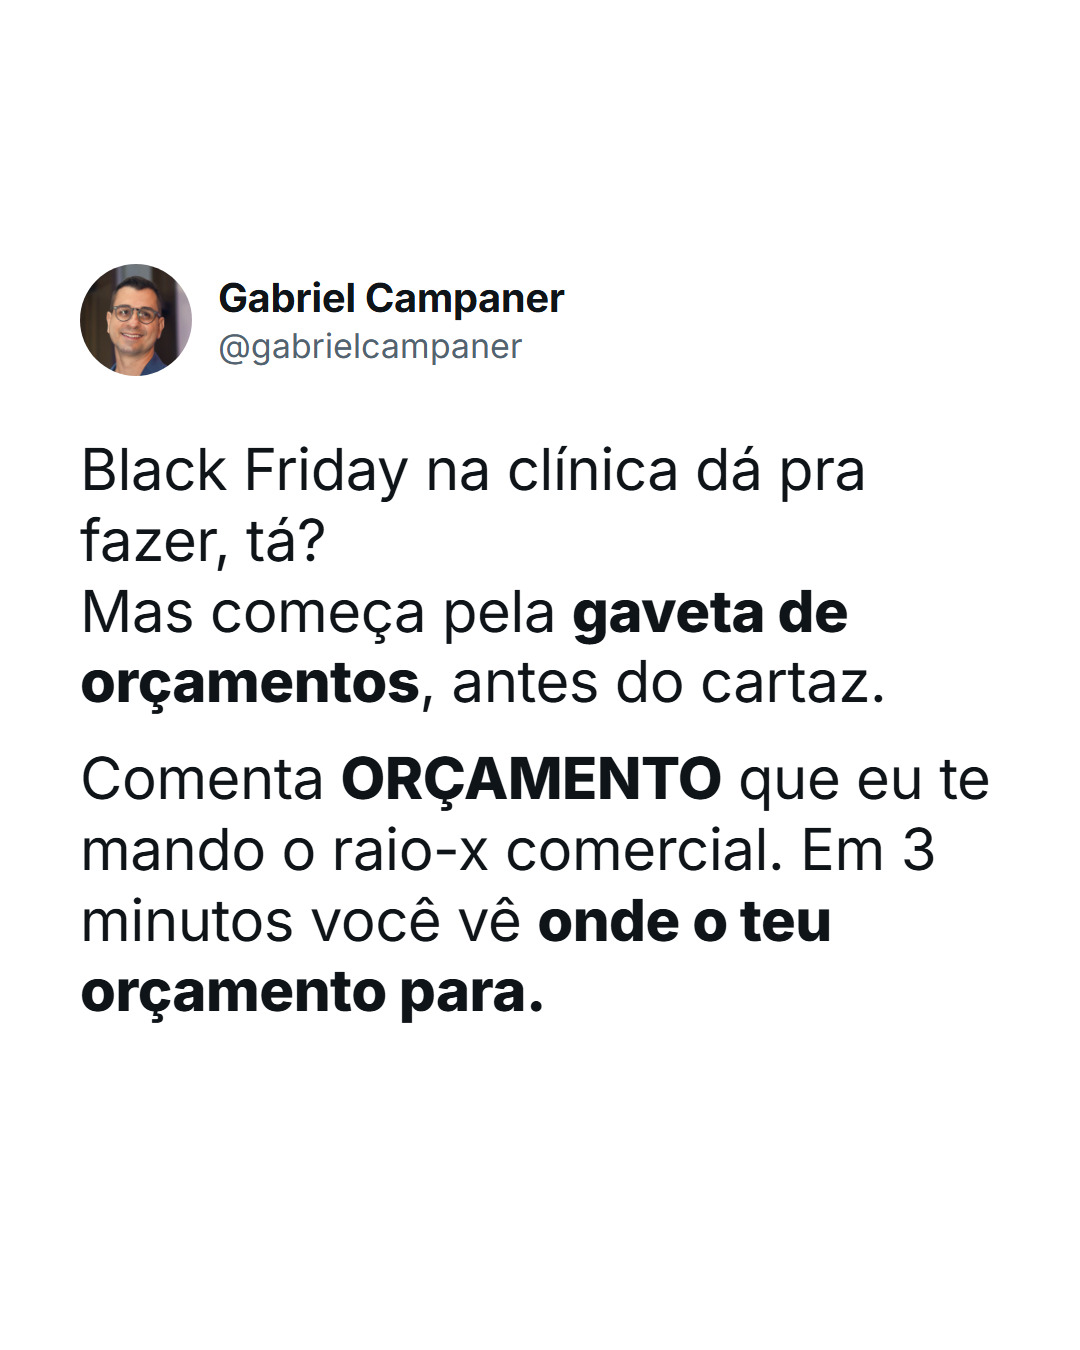
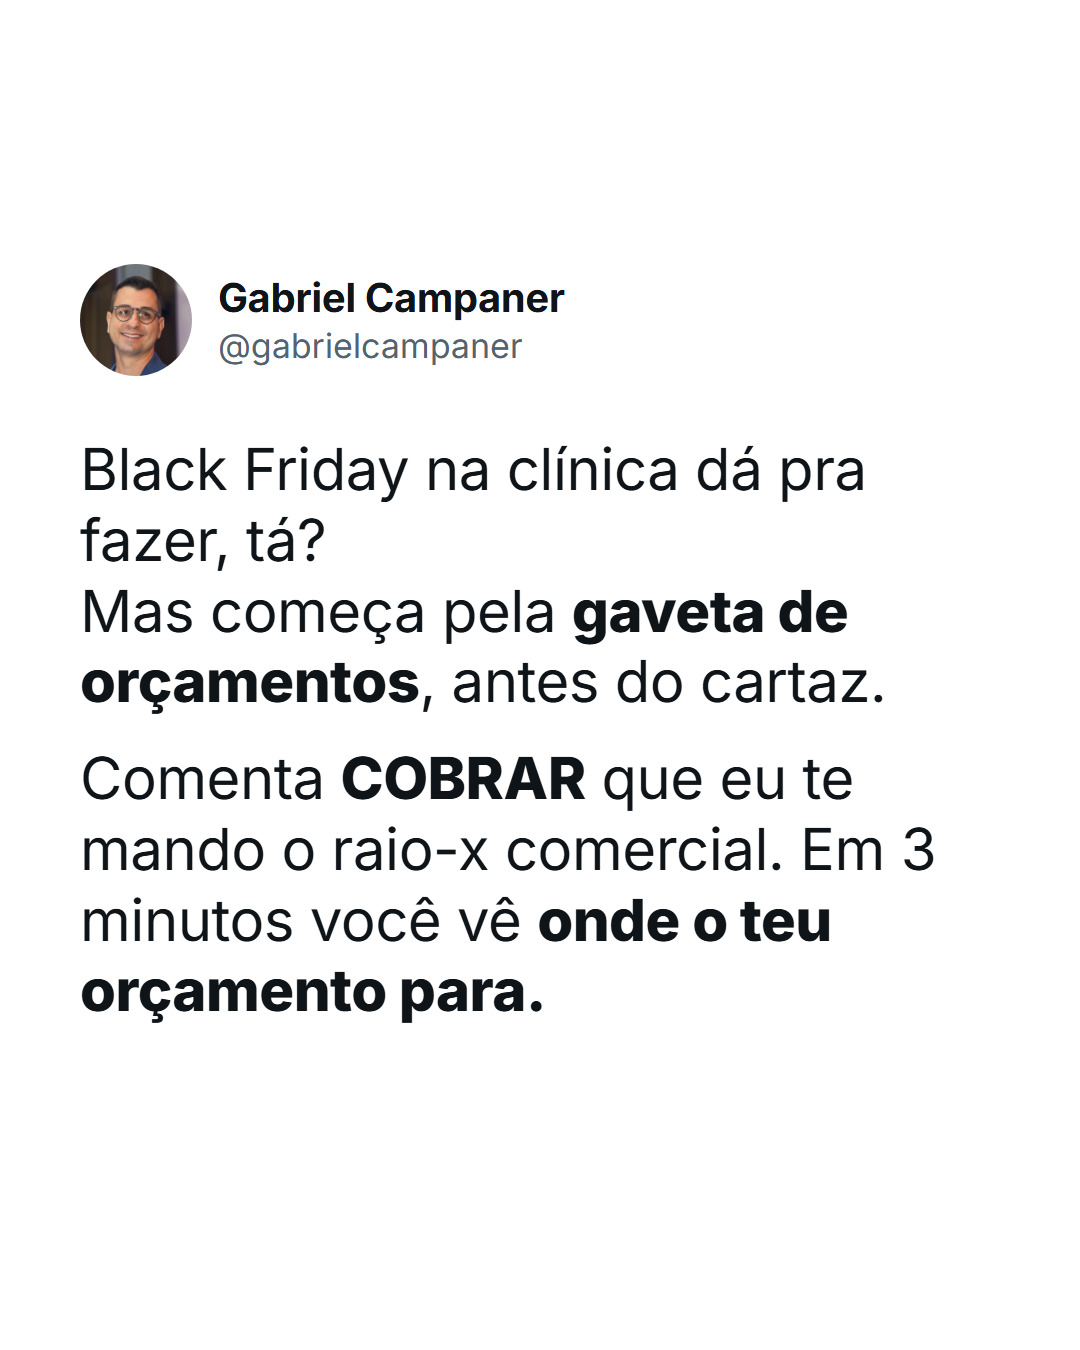
Calendário: 80 agendados, 4 pendentes

Changed region(s): [[0.3361, 0.56, 0.9167, 0.5911]]

diff --git a/AGENDA.md b/AGENDA.md
@@ -1,6 +1,6 @@
 # Agenda do Instagram da GC
 
-Gerada em 31/10/2026, 10:58:44. 79 posts agendados, 5 pendentes. Stories com enquete e caixinha são feitos à mão, no dia do post.
+Gerada em 31/10/2026, 11:05:52. 80 posts agendados, 4 pendentes. Stories com enquete e caixinha são feitos à mão, no dia do post.
 
 
 ## terça, 20/10
@@ -311,6 +311,8 @@ Gerada em 31/10/2026, 10:58:44. 79 posts agendados, 5 pendentes. Stories com enq
 
 - **06h30 · L3-17 · Um terço do lucro** (imagem)
   - Stories: Repost às 12h com a pergunta: "Você sabia que 10% era um terço?" · Sabia / Não sabia.
+- **12h30 · OD25 · Os Doutores · Comparação: a Black Friday e os orçamentos parados** (carrossel)
+  - Lembrete: Ative o rótulo de IA no post publicado (a API não marca).
 
 ## Pendentes (não saem até serem liberados)
 
@@ -318,4 +320,3 @@ Gerada em 31/10/2026, 10:58:44. 79 posts agendados, 5 pendentes. Stories com enq
 - **GC-21 · A conta da sessão de R$ 80**: data comemorativa já passou (13/10/2026)
 - **GC-11 · A consulta que ninguém marca**: data comemorativa já passou (18/10/2026)
 - **OD17 · Os Doutores · Você acordou hoje: agenda cheia, mês no zero**: palavra-chave PLANILHA: a automação precisa estar ativa
-- **OD25 · Os Doutores · Comparação: a Black Friday e os orçamentos parados**: palavra-chave ORÇAMENTO: a automação precisa estar ativa
